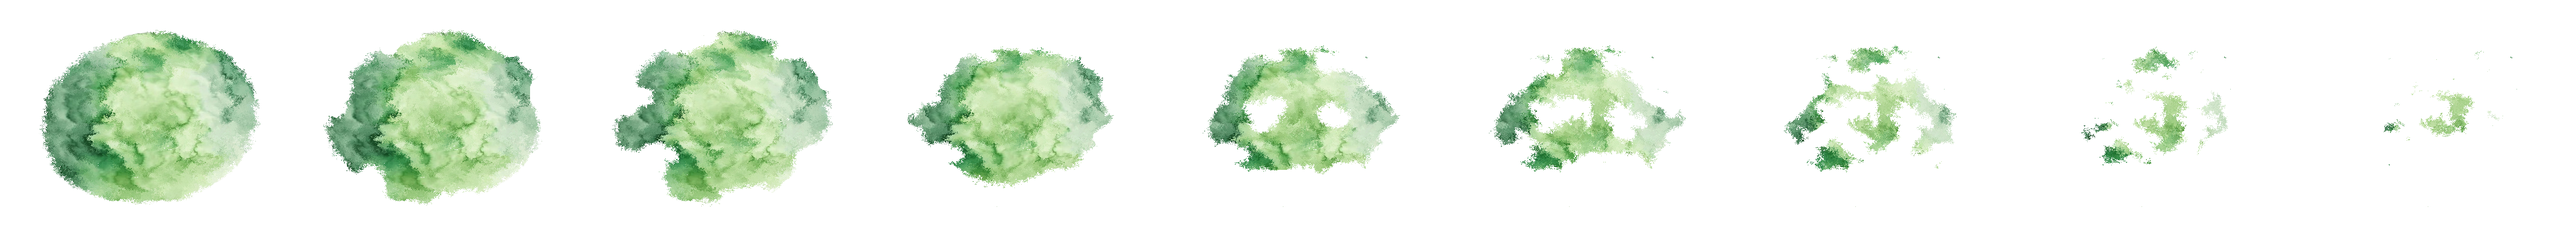
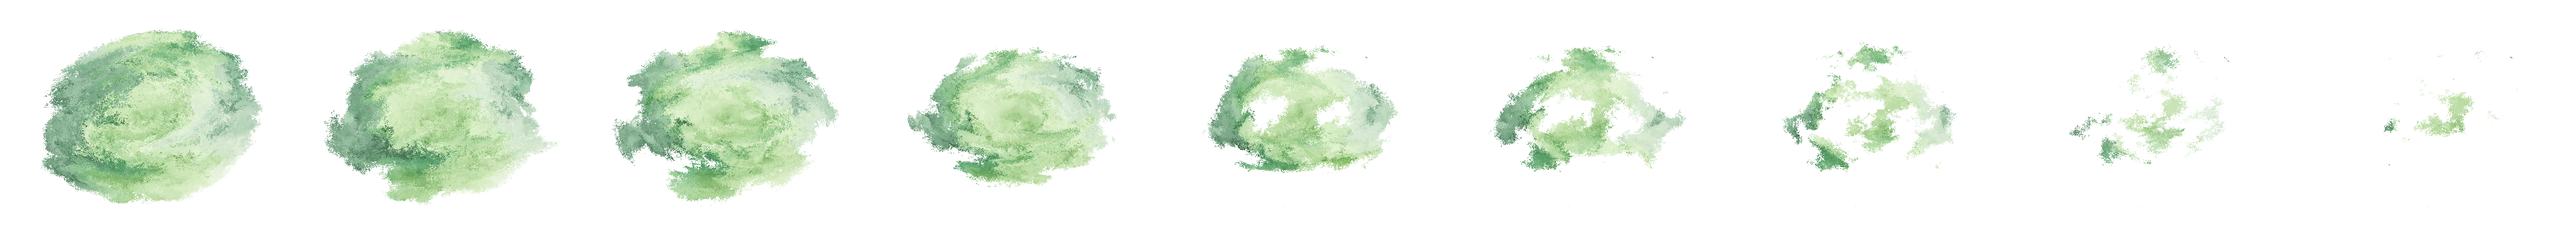
slimeTower funcionando correctamente

diff --git a/ProyectoH/src/systems/TowerSystem.cpp b/ProyectoH/src/systems/TowerSystem.cpp
@@ -17,8 +17,8 @@ void TowerSystem::initSystem() {
 	//addTower(twrId::_twr_BULLET, { (float)sdlutils().width() / 2.2f, 500.f }, LOW);
 	//addTower(twrId::_twr_BULLET, { (float)sdlutils().width() / 1.9f, 550.f }, LOW);
 	//addTower(twrId::_twr_DIEGO, { (float)sdlutils().width() / 1.9f, 600.f }, LOW);
-	//addTower(twrId::_twr_BULLET, { (float)sdlutils().width() / 2.3f, 600.f }, LOW);
-	//addTower(twrId::_twr_SLIME, { (float)sdlutils().width() / 2.3f, 630.f }, LOW);
+	addTower(twrId::_twr_SLIME, { (float)sdlutils().width() / 3.0f, 600.f }, LOW);
+	addTower(twrId::_twr_SLIME, { (float)sdlutils().width() / 2.3f, 630.f }, LOW);
 	//addTower(twrId::_twr_BULLET, { (float)sdlutils().width() / 1.8f, 600.f }, LOW);
 	addTower(twrId::_twr_FENIX, { (float)sdlutils().width() / 1.8f, 600.f }, LOW);
 	//addTower(twrId::_twr_BULLET, { (float)sdlutils().width() / 1.7f, 550.f }, LOW);
@@ -248,7 +248,8 @@ void TowerSystem::update() {
 				Vector2D pos = { t->getPosition()->getX() - scale.getX() / 2, t->getPosition()->getY() - scale.getY() / 4 };
 				tr->setPosition(pos);
 				mngr_->addComponent<RenderComponent>(area, slimeArea);
-				mngr_->addComponent<FramedImage>(area, 9, 1, 500, 400, 0, 5, 8);
+				mngr_->addComponent<FramedImage>(area, 9, 1, 500, 400, 0, 4, 8);
+				mngr_->addComponent<SlimeBullet>(area, sb->getDuration(), sb->getSpeedDecrease(), sb->getDPS());
 			}
 			bc->doDamageTo(bc->getTarget(), bc->getDamage());
 			bc->onTravelEnds();
@@ -356,7 +357,7 @@ void TowerSystem::addTower(twrId type, Vector2D pos, Height height) {
 		mngr_->addComponent<FramedImage>(t, intAt("DiegoSniperColumns"), intAt("DiegoSniperRows"), intAt("DiegoSniperWidth"), intAt("DiegoSniperHeight"), 0, 0);
 		break;
 	case _twr_SLIME:
-		mngr_->addComponent<SlimeTowerComponent>(t, intAt("SlimeRango"), floatAt("SlimeTiempoSlime"), floatAt("SlimeRalentizacion"), intAt("SlimeDPS"), intAt("SlimeRecarga") ,intAt("SlimeDano"));
+		mngr_->addComponent<SlimeTowerComponent>(t, intAt("SlimeRango"), /*floatAt("SlimeTiempoSlime")*/2.0, floatAt("SlimeRalentizacion"), intAt("SlimeDPS"), intAt("SlimeRecarga") ,intAt("SlimeDano"));
 		mngr_->addComponent<RenderComponent>(t, slimeTowerTexture);
 		mngr_->addComponent<FramedImage>(t, intAt("SlimeColumns"), intAt("SlimeRows"), intAt("SlimeWidth"), intAt("SlimeHeight"), 0, 0);
 

diff --git a/ProyectoH/src/systems/CollisionSystem.cpp b/ProyectoH/src/systems/CollisionSystem.cpp
@@ -1,4 +1,6 @@
 #include "CollisionSystem.h"
+#include "..//components/SlimeBullet.h"
+#include "../game/Game.h"
 
 CollisionSystem::CollisionSystem():fenixRects_(), slimeRects_(), enemyRects_() {
 
@@ -42,11 +44,13 @@ void CollisionSystem::addRect(Entity* rect, rectId id) {
 }
 
 void CollisionSystem::update() {
-
-	for (const auto& er : enemyRects_) {
-		for (const auto& fr : fenixRects_) {
+	const float timeInterval = 1.0f;
+	const auto& slimes = mngr_->getEntities(_grp_AREAOFATTACK);
+	const auto& enemies = mngr_->getHandler(_hdlr_ENEMIES);
+	for (const auto& er : enemies) {
+		SDL_Rect enemy = mngr_->getComponent<Transform>(er)->getRect();
+		/*for (const auto& fr : fenixRects_) {
 			SDL_Rect fenix = mngr_->getComponent<Transform>(fr)->getRect();
-			SDL_Rect enemy = mngr_->getComponent<Transform>(er)->getRect();
 			SDL_bool col = SDL_HasIntersection(&fenix, &enemy);
 			float dps = mngr_->getComponent<PhoenixTower>(fr)->getDamage();
 
@@ -58,17 +62,27 @@ void CollisionSystem::update() {
 				m.entity_to_attack.damage = dps;
 				mngr_->send(m);
 			}
-		}	
+		}	*/
 
-		for (const auto& sr : slimeRects_) {
-			SDL_Rect fenix = mngr_->getComponent<Transform>(sr)->getRect();
-			SDL_Rect enemy = mngr_->getComponent<Transform>(er)->getRect();
-			SDL_bool col = SDL_HasIntersection(&fenix, &enemy);
-
-			if (col) {
-				Message m;
-				m.id = _m_ENTITY_TO_ATTACK;				
-			}
+		for (const auto& sr : slimes) {
+			
+			SlimeBullet* sb = mngr_->getComponent<SlimeBullet>(sr);	
+			if (sb != nullptr) {
+				sb->setElapsedTime(sb->getElapsedTime() + game().getDeltaTime());
+				if (sb->getElapsedTime() > timeInterval) {
+					SDL_Rect slime = mngr_->getComponent<Transform>(sr)->getRect();
+					if (SDL_HasIntersection(&slime, &enemy)) {
+						Message m;
+						m.id = _m_ENTITY_TO_ATTACK;
+						m.entity_to_attack.e = er;
+						m.entity_to_attack.src = sr;
+						m.entity_to_attack.damage = sb->getDPS();
+						mngr_->send(m);
+					}
+				}
+				sb->setElapsedDuration(sb->getElapsedDuration() + game().getDeltaTime());
+				if (sb->getElapsedDuration() > sb->getDuration()) { mngr_->setAlive(sr, false); }
+			}				
 		}
 	}	
 }

diff --git a/ProyectoH/src/components/SlimeBullet.cpp b/ProyectoH/src/components/SlimeBullet.cpp
@@ -1,7 +1,18 @@
 #include "SlimeBullet.h"
 
-SlimeBullet::SlimeBullet(float slimeDuration, float speedDecreasePer, float slimeDPS) : slimeDuration_(slimeDuration), speedDecreasePer_(speedDecreasePer), slimeDPS_(slimeDPS) {}
+SlimeBullet::SlimeBullet(float slimeDuration, float speedDecreasePer, float slimeDPS) 
+	: slimeDuration_(slimeDuration), speedDecreasePer_(speedDecreasePer), slimeDPS_(slimeDPS), elapsedTime_(0), elapsedDuration_(0) {}
 
 float SlimeBullet::getSpeedDecrease() const { return speedDecreasePer_; }
 
 float SlimeBullet::getDuration() const { return slimeDuration_; }
+
+float SlimeBullet::getElapsedTime() const { return elapsedTime_; }
+
+void SlimeBullet::setElapsedTime(float time) { elapsedTime_ = time; }
+
+float SlimeBullet::getElapsedDuration() const { return elapsedDuration_; }
+
+void SlimeBullet::setElapsedDuration(float time) { elapsedDuration_ = time; }
+
+float SlimeBullet::getDPS() const { return slimeDPS_; }

diff --git a/ProyectoH/src/components/SlimeBullet.h b/ProyectoH/src/components/SlimeBullet.h
@@ -12,9 +12,16 @@ public:
 	SlimeBullet(float slimeDuration, float speedDecreasePer, float slimeDPS);
 	float getSpeedDecrease() const;
 	float getDuration() const;
+	void  setElapsedTime(float time);
+	float getElapsedTime() const;
+	void  setElapsedDuration(float time);
+	float getElapsedDuration() const;
+	float getDPS() const;
 private:
 	float slimeDuration_;
 	float speedDecreasePer_;
 	float slimeDPS_;
+	float elapsedTime_;
+	float elapsedDuration_;
 };
 

diff --git a/ProyectoH/src/systems/EnemySystem.cpp b/ProyectoH/src/systems/EnemySystem.cpp
@@ -26,7 +26,7 @@ void EnemySystem::initSystem() {
 	route.push_back({ 300, 600.f });
 
 	mngr_->addComponent<RouteComponent>(enemie, route);
-	mngr_->addComponent<AttackComponent>(enemie, 200, 0.25, 20, false);
+	mngr_->addComponent<AttackComponent>(enemie, 0, 0.25, 20, false);
 	mngr_->addComponent<RenderComponent>(enemie, square);
 	mngr_->addComponent<HealthComponent>(enemie, 50000);
 	mngr_->addComponent<FramedImage>(enemie, 1, 1, 122, 117, 0, 0, 1);

diff --git a/ProyectoH/src/gameStates/PlayState.cpp b/ProyectoH/src/gameStates/PlayState.cpp
@@ -8,5 +8,6 @@ PlayState::PlayState() : GameState(_gmStt_PLAY) {
 	mngr_->addSystem<mapSystem>("../ProyectoH/resources/tileMap/nivelPrueba.tmx");
 	mngr_->addSystem<HUDSystem>();
 	mngr_->addSystem<TowerSystem>();
-	//mngr_->addSystem<EnemySystem>();
+	mngr_->addSystem<EnemySystem>();
+	mngr_->addSystem<CollisionSystem>();
 }

diff --git a/ProyectoH/src/gameStates/PlayState.h b/ProyectoH/src/gameStates/PlayState.h
@@ -5,6 +5,7 @@
 #include "../systems/EnemySystem.h"
 #include "../systems/TowerSystem.h"
 #include "../systems/HUDSystem.h"
+#include "../systems/CollisionSystem.h"
 #include "../components/MovementComponent.h"
 #include "../components/RouteComponent.h"
 
